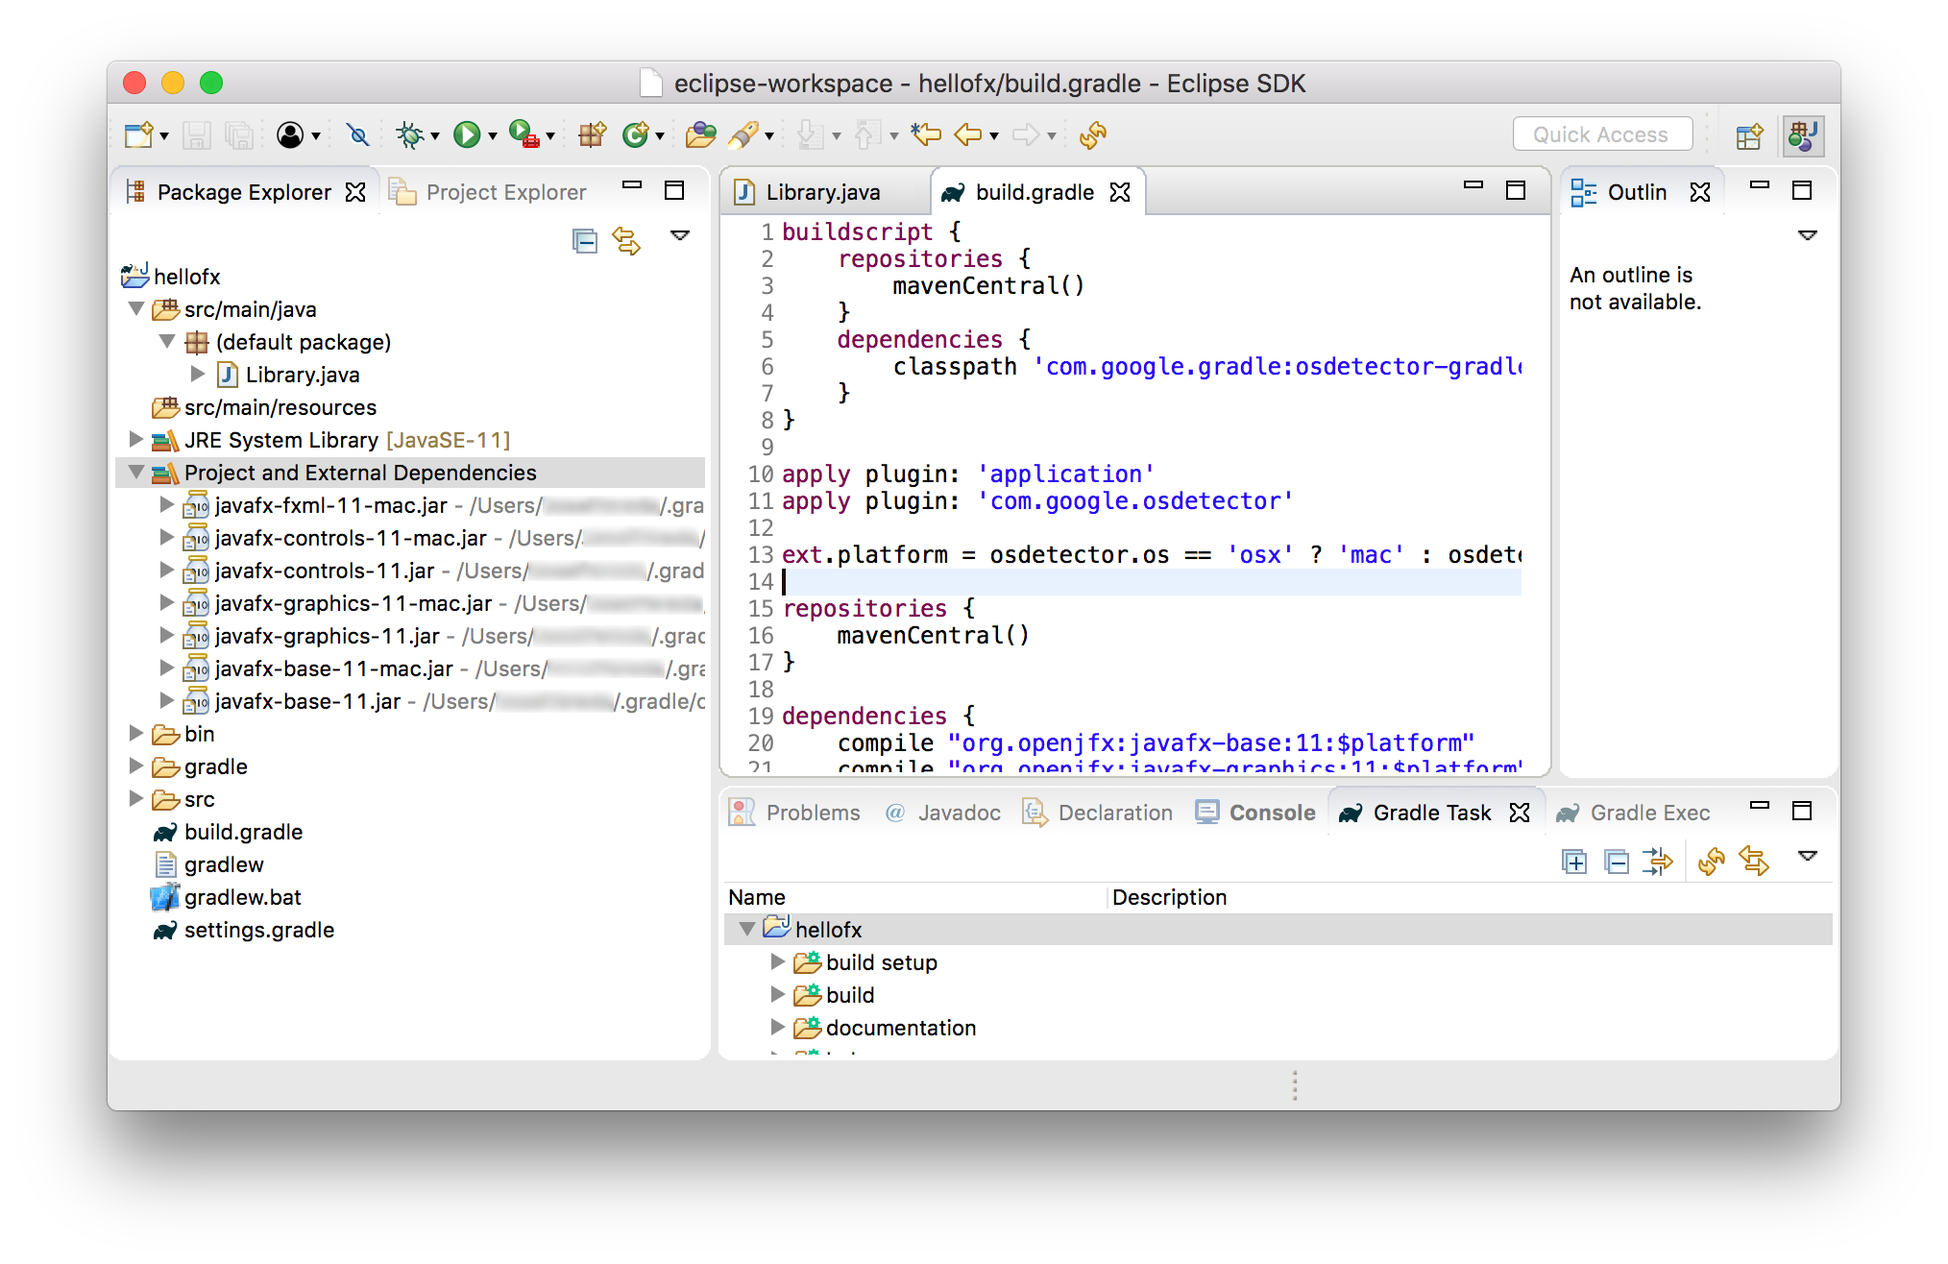
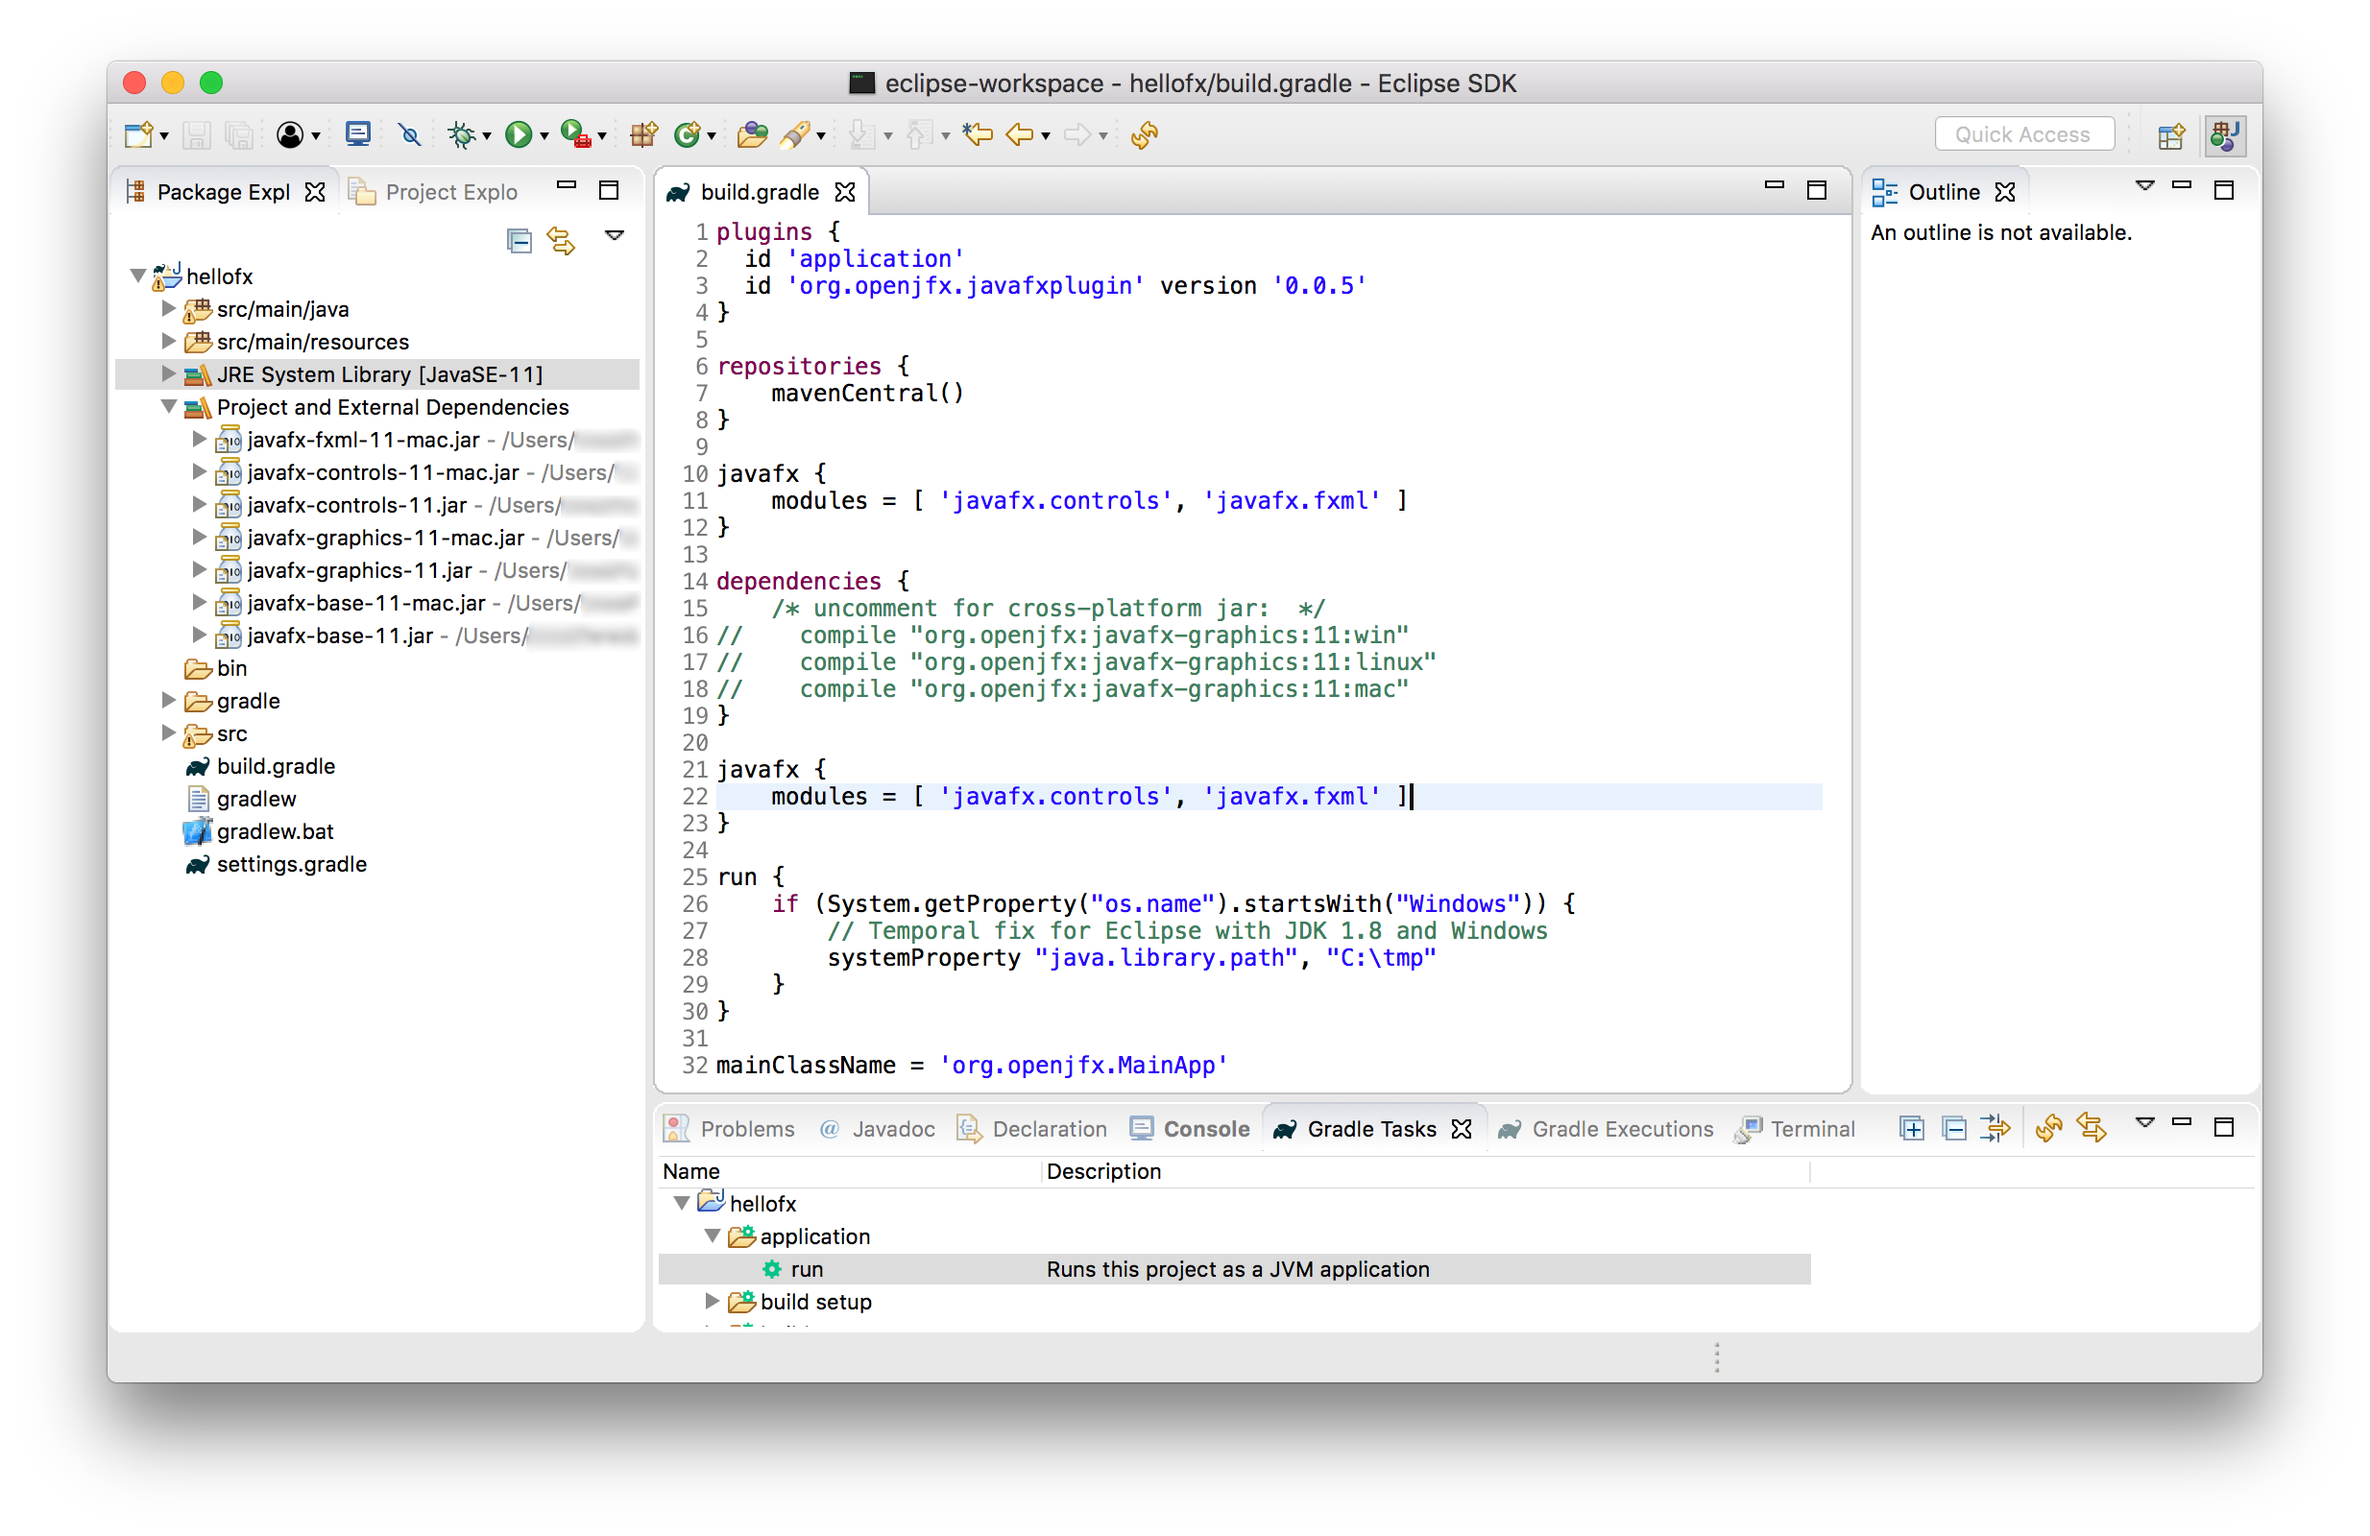
#27: Update docs with new JavaFX plugin

diff --git a/ide-eclipse.html b/ide-eclipse.html
@@ -307,10 +307,15 @@ If that is not possible, another workaround is to add this VM argument to
     <kbd>mainClassName</kbd> accordingly to <kbd>org.openjfx.MainApp</kbd>.
 </p>
 <p>
-    Note we have added the required dependencies with the classifier for the platform. 
-    Since Gradle doesn't resolve transitive dependencies with classifiers, we need to add all 
-    the modules (<kbd>javafx.base</kbd>, <kbd>javafx.graphics</kbd> and for <kbd>javafx.controls</kbd>).
-    
+    Similar to Maven, we can declare the required JavaFX modules in the <kbd>build.gradle</kbd> file.
+    However, for Gradle we need to specify the JavaFX gradle plugin:
+</p>
+<pre><code>
+javafx {
+    modules = [ 'javafx.controls', 'javafx.fxml' ]
+}
+</code></pre>
+<p>
     Refresh the gradle project and you will get the JavaFX dependencies.
     <a href="images/ide/eclipse/gradle/eclipse03.png" target="_blank"><img src="images/ide/eclipse/gradle/eclipse03.png" alt="Update the build"/></a>
     As for any other Gradle dependencies, these jars can be found in the local <kbd>.gradle</kbd> repository.
@@ -324,7 +329,8 @@ If that is not possible, another workaround is to add this VM argument to
     and the <a class="samples" href="/IDE/Eclipse/Non-Modular/Gradle/hellofx/src/main/resources/org/openjfx/scene.fxml" target="_blank">FXML</a> and 
     and the <a class="samples" href="/IDE/Eclipse/Non-Modular/Gradle/hellofx/src/main/resources/org/openjfx/styles.css" target="_blank">css</a>  
     files.
-    
+</p>
+<p>    
     You can add a main class <kbd>MainApp</kbd>, and an <kbd>FXMLController</kbd> class, and add to resources the <kbd>FXML</kbd> file.
     
     <a href="images/ide/eclipse/maven/eclipse04.png" target="_blank"><img src="images/ide/eclipse/maven/eclipse04.png" alt="Add JavaFX project"/></a>
@@ -398,8 +404,7 @@ If that is not possible, another workaround is to add this VM argument to the bu
 
 <pre class="alert"><code class="alert">
 run {
-    ...
-    if (platform == 'win') {
+    if (System.getProperty("os.name").startsWith("Windows")) {
         systemProperty "java.library.path", "C:\tmp"
     }
 }
@@ -661,9 +666,10 @@ jre\bin\java -m hellofx/org.openjfx.MainApp
 </p>
 
 <p>
-    Note the use of the <kbd>org.javamodularity.moduleplugin</kbd> plugin, that removes the necessity of setting the module-path
-    for the compile and run task.
-    
+    Note the use of the <kbd>org.openjfx.javafxplugin</kbd> plugin, that removes the necessity of adding the 
+    JavaFX dependencies and setting the module-path for the compile and run task for them.
+</p>
+<p>   
     Note also that the use of the <kbd>eclipse</kbd> plugin is required to include the modules to the module path.
     
     <a href="images/ide/eclipse/modular/gradle/eclipse01.png" target="_blank"><img src="images/ide/eclipse/modular/gradle/eclipse01.png" alt="Update the build"/></a>

diff --git a/gradle.html b/gradle.html
@@ -1,70 +1,25 @@
 <h2>Run HelloWorld using Gradle</h2>
 
 <p>
-    Similar to Maven, we can declare JavaFX jars as dependency in the <kbd>build.gradle</kbd> file.
-    However, for Gradle we need to find and specify the platform/OS as classifier. This requires a
-    small script:
+    Similar to Maven, we can declare the required JavaFX modules in the <kbd>build.gradle</kbd> file.
+    However, for Gradle we need to specify the JavaFX gradle plugin:
 </p>
 
 <pre><code>
-buildscript {
-    repositories {
-        mavenCentral()
-    }
-    dependencies {
-        classpath 'com.google.gradle:osdetector-gradle-plugin:1.6.0'
-    }
+plugins {
+  id 'application'
+  id 'org.openjfx.javafxplugin' version '0.0.5'
 }
-
-apply plugin: 'application'
-apply plugin: 'com.google.osdetector'
-
-ext.platform = osdetector.os == 'osx' ? 'mac' : osdetector.os == 'windows' ? 'win' : osdetector.os
 </code></pre>
 
 <p>
-    Next, we add all the dependencies using the platform. For instance, if we only need the <kbd>javafx.controls</kbd> 
+    Next, we add the required modules. For instance, if we only need the <kbd>javafx.controls</kbd> 
     module, we will include:
 </p>
 
 <pre><code>
-dependencies {
-    compile "org.openjfx:javafx-base:<span class="JFX_VERSION">11</span>:$platform"
-    compile "org.openjfx:javafx-graphics:<span class="JFX_VERSION">11</span>:$platform"
-    compile "org.openjfx:javafx-controls:<span class="JFX_VERSION">11</span>:$platform"
-}
-</code></pre>
-
-<div class="alert alert-warning">
-    <strong>Note: </strong>
-    The classifiers are not taken into account when resolving
-    transitive dependencies in Gradle. Therefore, we need to specify all this three JavaFX modules
-    with <kbd>platform</kbd> as classifier.
-</div>
-
-<p>
-    Next, we set <kbd>--module-path</kbd> to the value that would have been the classpath
-    and add <kbd>javafx.controls</kbd> as a module to both <kbd>javac</kbd> and <kbd>java</kbd> commands.
-    This makes sense because all the dependencies are currently on the classpath.
-</p>
-
-<pre><code>
-compileJava {
-    doFirst {
-        options.compilerArgs = [
-                '--module-path', classpath.asPath,
-                '--add-modules', 'javafx.controls'
-        ]
-    }
-}
-
-run {
-    doFirst {
-        jvmArgs = [
-                '--module-path', classpath.asPath,
-                '--add-modules', 'javafx.controls'
-        ]
-    }
+javafx {
+    modules = [ 'javafx.controls' ]
 }
 </code></pre>
 

diff --git a/ide-netbeans.html b/ide-netbeans.html
@@ -284,10 +284,14 @@ Error: JavaFX runtime components are missing, and are required to run this appli
     <kbd>mainClassName</kbd> accordingly to <kbd>org.openjfx.MainApp</kbd>.
 </p>
 <p>
-    Note we have added the required dependencies with the classifier for the platform. 
-    Since Gradle doesn't resolve transitive dependencies with classifiers, we need to add all 
-    the modules (<kbd>javafx.base</kbd>, <kbd>javafx.graphics</kbd> and for <kbd>javafx.controls</kbd>).
-    
+    We can declare the required JavaFX modules in the <kbd>build.gradle</kbd> file using the JavaFX gradle plugin:
+</p>
+<pre><code>
+javafx {
+    modules = [ 'javafx.controls', 'javafx.fxml' ]
+}
+</code></pre>
+<p>   
     Reload the project and you will get the JavaFX dependencies.
     
     <a href="images/ide/netbeans/gradle/netbeans03.png" target="_blank"><img src="images/ide/netbeans/gradle/netbeans03.png" alt="Update the build"/></a>
@@ -303,9 +307,10 @@ Error: JavaFX runtime components are missing, and are required to run this appli
     and the <a class="samples" href="/IDE/NetBeans/Non-Modular/Gradle/hellofx/src/main/resources/org/openjfx/scene.fxml" target="_blank">FXML</a> and 
     and the <a class="samples" href="/IDE/NetBeans/Non-Modular/Gradle/hellofx/src/main/resources/org/openjfx/styles.css" target="_blank">css</a>  
     files.
-    
-    Note that the JavaFX classes are recognized by the IDE.
+
     <a href="images/ide/netbeans/gradle/netbeans04.png" target="_blank"><img src="images/ide/netbeans/gradle/netbeans04.png" alt="Add JavaFX project"/></a>
+
+    Note that the JavaFX classes are recognized by the IDE.
 </p>
 
 <h5>4. Run the project</h5>
@@ -566,8 +571,8 @@ jre\bin\java -m hellofx/org.openjfx.MainApp
     <kbd>mainClassName</kbd> accordingly to <kbd>org.openjfx.MainApp</kbd>.
 </p>
 <p>
-    Note the use of the <kbd>org.javamodularity.moduleplugin</kbd> plugin, that removes the necessity of setting the module-path
-    for the compile and run task.
+    Note the use of the <kbd>org.openjfx.javafxplugin</kbd> plugin, that removes the necessity of adding the 
+    JavaFX dependencies and setting the module-path for the compile and run task for them.
     
     <a href="images/ide/netbeans/modular/gradle/netbeans01.png" target="_blank"><img src="images/ide/netbeans/modular/gradle/netbeans01.png" alt="Update the build"/></a>
 </p>

diff --git a/ide-intellij.html b/ide-intellij.html
@@ -205,10 +205,16 @@ Error: JavaFX runtime components are missing, and are required to run this appli
     <kbd>mainClassName</kbd> accordingly to <kbd>org.openjfx.MainApp</kbd>.
 </p>
 <p>
-    Unlike Maven, the platform needs to be manually determined and added as classifier to the dependencies.
-    Since Gradle doesn't resolve transitive dependencies with classifiers, we need to add all 
-    the modules (<kbd>javafx.base</kbd>, <kbd>javafx.graphics</kbd> and for <kbd>javafx.controls</kbd>).
-    
+    Similar to Maven, we can declare the required JavaFX modules in the <kbd>build.gradle</kbd> file.
+    However, for Gradle we need to specify the JavaFX gradle plugin:
+</p>
+<pre><code>
+javafx {
+    modules = [ 'javafx.controls', 'javafx.fxml' ]
+}
+</code></pre>
+
+<p>   
     Synchronize the project and you will get the JavaFX dependencies.
     <a href="images/ide/intellij/gradle/idea03.png" target="_blank"><img src="images/ide/intellij/gradle/idea03.png" alt="Update the build"/></a>
     As for any other Gradle dependencies, these jars can be found in the local <kbd>.gradle</kbd> repository.
@@ -333,12 +339,12 @@ gradlew run
 <div class="tab-content">
     <div class="tab-pane active" id="nix-idea-mod-ide-1">
 <pre class="no-border-radius"><code>
---module-path $PATH_TO_FX:mods/production --add-modules=javafx.controls,javafx.fxml
+--module-path $PATH_TO_FX:mods/production
 </code></pre>
     </div>
     <div class="tab-pane" id="win-idea-mod-ide-1">
 <pre><code>
---module-path "%PATH_TO_FX%;mods\production" --add-modules=javafx.controls,javafx.fxml
+--module-path "%PATH_TO_FX%;out\production"
 </code></pre>
     </div>
 </div>
@@ -503,8 +509,8 @@ jre\bin\java -m hellofx/org.openjfx.MainApp
     <kbd>mainClassName</kbd> accordingly to <kbd>org.openjfx.MainApp</kbd>.
 </p>
 <p>
-    Note the use of the <kbd>org.javamodularity.moduleplugin</kbd> plugin, that removes the necessity of setting the module-path
-    for the compile and run task.
+    Note the use of the <kbd>org.openjfx.javafxplugin</kbd> plugin, that removes the necessity of adding the 
+    JavaFX dependencies and setting the module-path for the compile and run task for them.
     
     <a href="images/ide/intellij/modular/gradle/idea01.png" target="_blank"><img src="images/ide/intellij/modular/gradle/idea01.png" alt="Update the build"/></a>
 </p>

diff --git a/modular.html b/modular.html
@@ -125,10 +125,10 @@ java --module-path "%PATH_TO_FX%;mods" -m hellofx/hellofx.HelloFX
     </div>
 </div>
 
-<a name="jlink"></a><h4>jlink</h4>
+<a class="jlink"></a><h4>jlink</h4>
 
 <p>
-    With a modular project, <a href="https://docs.oracle.com/en/java/javase/11/tools/jlink.html">jlink</a>
+    With a modular project, <a href="https://docs.oracle.com/en/java/javase/11/tools/jlink.html" target="_blank">jlink</a>
     can be used to create a custom runtime image using the JavaFX jmods:
 </p>
 
@@ -252,7 +252,7 @@ gradlew run
 </div>
 
 <p>
-    To create a custom runtime the referred <a href="#jlink">steps</a> have been added to the <kbd>jlink</kbd> task 
+    To create a custom runtime the referred <a class="modular-jlink-action" href="#">steps</a> have been added to the <kbd>jlink</kbd> task 
     included in the build file. 
 </p>
 
@@ -516,7 +516,7 @@ java -jar shade\hellofx.jar
 </p>
 
 <pre><code>
-mainClassName = 'hellofx.Launcher'
+mainClassName = 'hellofx.HelloFX'
 jar {
     manifest {
         attributes 'Main-Class': 'hellofx.Launcher'
@@ -569,6 +569,10 @@ compile "org.openjfx:javafx-graphics:<span class="JFX_VERSION">11</span>:win"
 compile "org.openjfx:javafx-graphics:<span class="JFX_VERSION">11</span>:linux"
 compile "org.openjfx:javafx-graphics:<span class="JFX_VERSION">11</span>:mac"
 </code></pre>
+
+<p>
+    Now run the jar task again to create the cross-platform fat jar.
+</p>
 
 <a name="command-line"></a><h3>Command Line</h3>
 

diff --git a/js/gluon.js b/js/gluon.js
@@ -79,6 +79,12 @@ $(function() {
         });
     });
     
+    $(document).on('click', '.modular-jlink-action', function(event) {
+        event.preventDefault(); 
+        var anchor = $('.jlink');
+        $('html,body').scrollTop($(anchor).offset().top);
+    });
+    
     // Scroll to anchor from list-group-sub links
     $(document).on('click', ".scrollto", function(event) {
         event.preventDefault(); 
